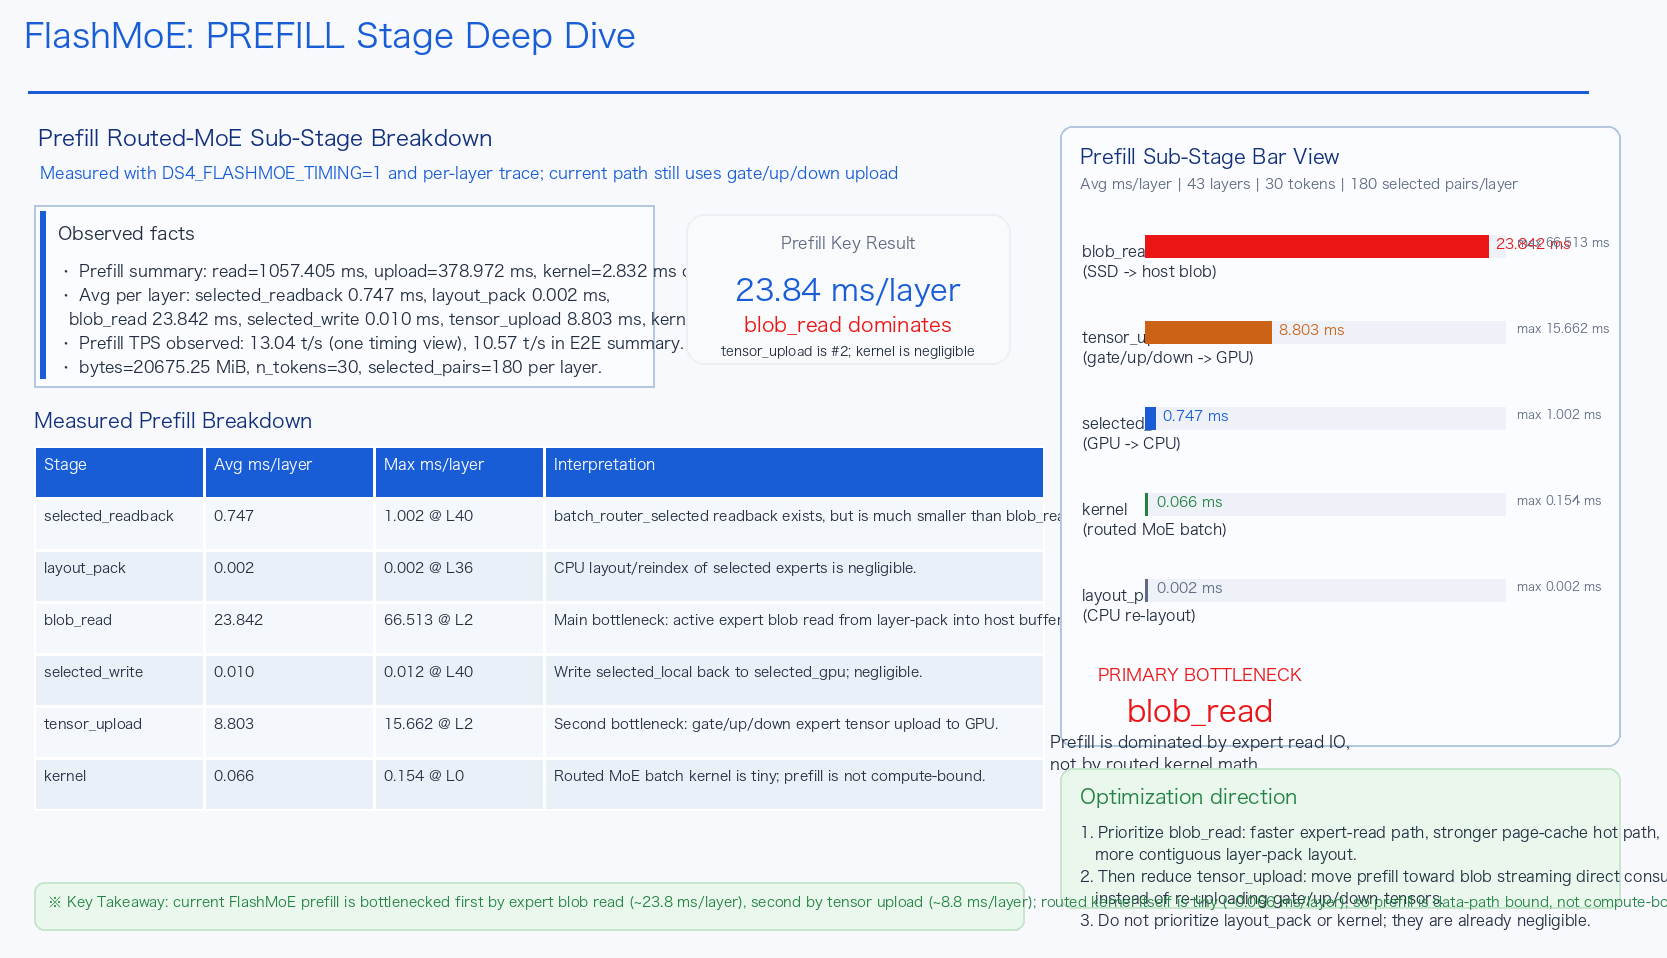
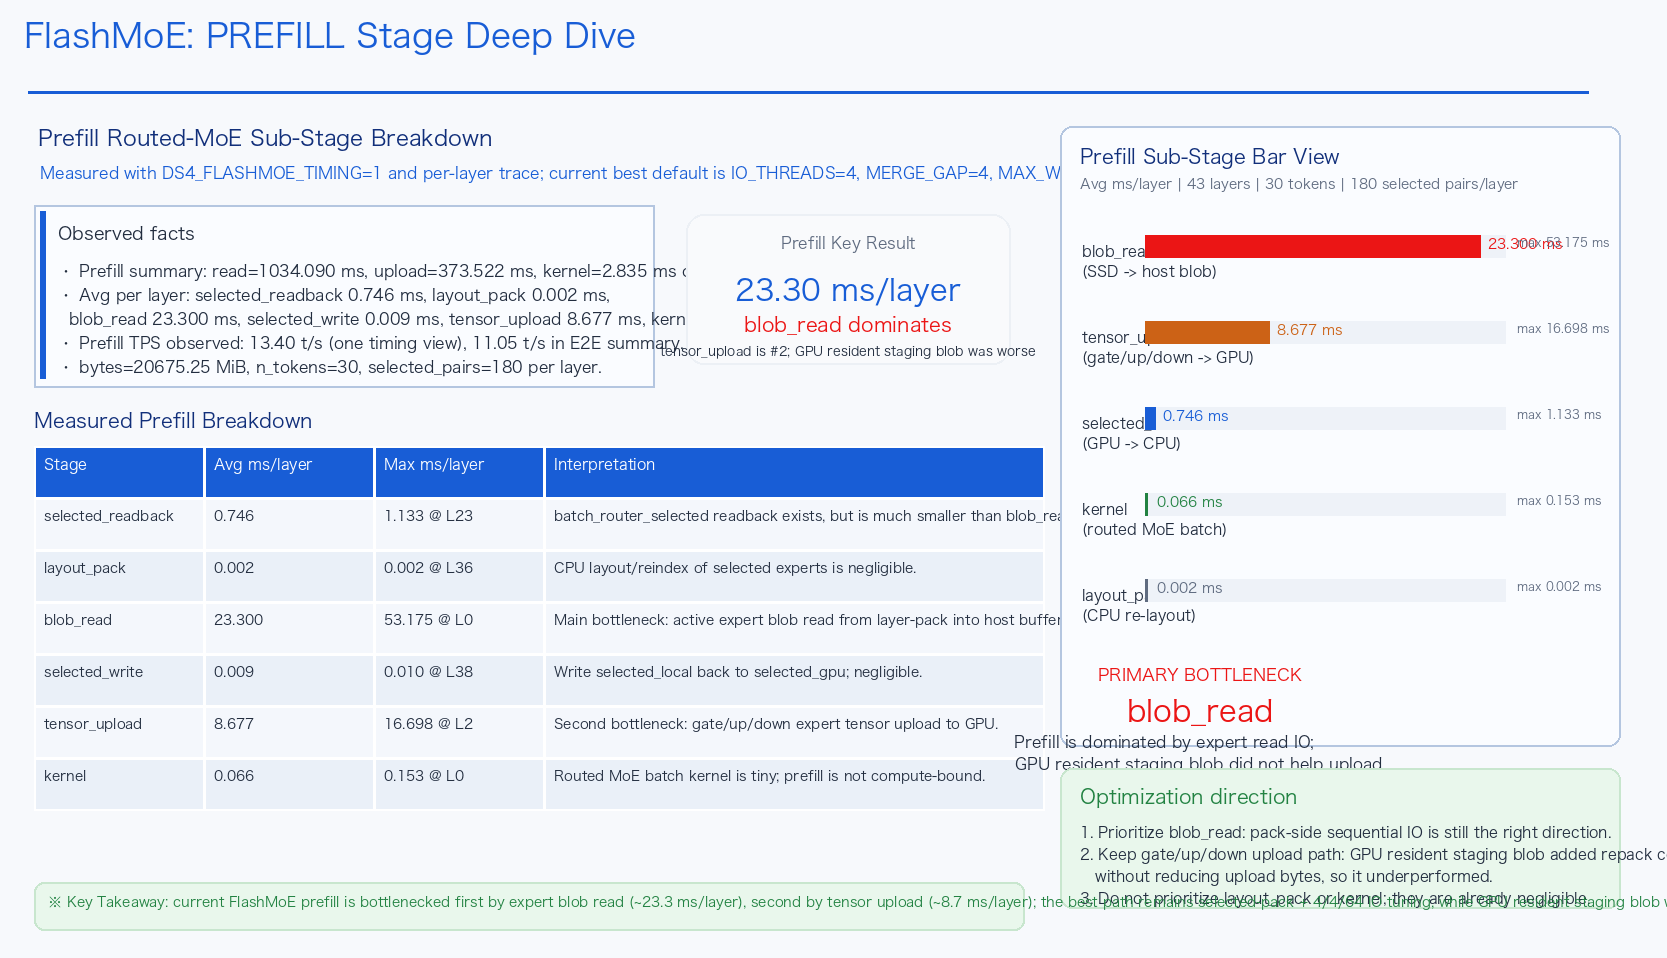
Update FlashMoE prefill analysis materials

diff --git a/tools/render_prefill_deep_dive_slide.py b/tools/render_prefill_deep_dive_slide.py
@@ -42,7 +42,7 @@ txt(24, 18, "FlashMoE: PREFILL Stage Deep Dive", 34, BLUE)
 d.line((28, 92, 1588, 92), fill=BLUE, width=3)
 
 txt(38, 126, "Prefill Routed-MoE Sub-Stage Breakdown", 22, NAVY)
-txt(40, 164, "Measured with DS4_FLASHMOE_TIMING=1 and per-layer trace; current path still uses gate/up/down upload", 16, BLUE)
+txt(40, 164, "Measured with DS4_FLASHMOE_TIMING=1 and per-layer trace; current best default is IO_THREADS=4, MERGE_GAP=4, MAX_WINDOW=64", 16, BLUE)
 
 rect(34, 205, 620, 182, (250, 252, 255), BORDER, 2, 0)
 d.line((42, 211, 42, 378), fill=BLUE, width=6)
@@ -50,10 +50,10 @@ txt(58, 224, "Observed facts", 18, DARK)
 txt(
     58,
     262,
-    "• Prefill summary: read=1057.405 ms, upload=378.972 ms, kernel=2.832 ms over 43 layers.\n"
-    "• Avg per layer: selected_readback 0.747 ms, layout_pack 0.002 ms,\n"
-    "  blob_read 23.842 ms, selected_write 0.010 ms, tensor_upload 8.803 ms, kernel 0.066 ms.\n"
-    "• Prefill TPS observed: 13.04 t/s (one timing view), 10.57 t/s in E2E summary.\n"
+    "• Prefill summary: read=1034.090 ms, upload=373.522 ms, kernel=2.835 ms over 43 layers.\n"
+    "• Avg per layer: selected_readback 0.746 ms, layout_pack 0.002 ms,\n"
+    "  blob_read 23.300 ms, selected_write 0.009 ms, tensor_upload 8.677 ms, kernel 0.066 ms.\n"
+    "• Prefill TPS observed: 13.40 t/s (one timing view), 11.05 t/s in E2E summary.\n"
     "• bytes=20675.25 MiB, n_tokens=30, selected_pairs=180 per layer.",
     16,
     DARK,
@@ -62,9 +62,9 @@ txt(
 
 rect(686, 214, 324, 150, (249, 250, 252), (236, 240, 245), 2, 18)
 txt(848, 234, "Prefill Key Result", 16, GRAY, "ma")
-txt(848, 274, "23.84 ms/layer", 30, BLUE, "ma")
+txt(848, 274, "23.30 ms/layer", 30, BLUE, "ma")
 txt(848, 314, "blob_read dominates", 20, RED, "ma")
-txt(848, 344, "tensor_upload is #2; kernel is negligible", 13, DARK, "ma")
+txt(848, 344, "tensor_upload is #2; GPU resident staging blob was worse", 13, DARK, "ma")
 
 txt(34, 410, "Measured Prefill Breakdown", 20, NAVY)
 table_x, table_y = 34, 446
@@ -72,12 +72,12 @@ col_w = [170, 170, 170, 500]
 row_h = 52
 headers = ["Stage", "Avg ms/layer", "Max ms/layer", "Interpretation"]
 rows = [
-    ["selected_readback", "0.747", "1.002 @ L40", "batch_router_selected readback exists, but is much smaller than blob_read and tensor_upload."],
+    ["selected_readback", "0.746", "1.133 @ L23", "batch_router_selected readback exists, but is much smaller than blob_read and tensor_upload."],
     ["layout_pack", "0.002", "0.002 @ L36", "CPU layout/reindex of selected experts is negligible."],
-    ["blob_read", "23.842", "66.513 @ L2", "Main bottleneck: active expert blob read from layer-pack into host buffers."],
-    ["selected_write", "0.010", "0.012 @ L40", "Write selected_local back to selected_gpu; negligible."],
-    ["tensor_upload", "8.803", "15.662 @ L2", "Second bottleneck: gate/up/down expert tensor upload to GPU."],
-    ["kernel", "0.066", "0.154 @ L0", "Routed MoE batch kernel is tiny; prefill is not compute-bound."],
+    ["blob_read", "23.300", "53.175 @ L0", "Main bottleneck: active expert blob read from layer-pack into host buffers."],
+    ["selected_write", "0.009", "0.010 @ L38", "Write selected_local back to selected_gpu; negligible."],
+    ["tensor_upload", "8.677", "16.698 @ L2", "Second bottleneck: gate/up/down expert tensor upload to GPU."],
+    ["kernel", "0.066", "0.153 @ L0", "Routed MoE batch kernel is tiny; prefill is not compute-bound."],
 ]
 
 x = table_x
@@ -104,10 +104,10 @@ bar_max_w = 360
 scale = bar_max_w / 25.0
 
 stages = [
-    ("blob_read\n(SSD -> host blob)", 23.842, 66.513, RED),
-    ("tensor_upload\n(gate/up/down -> GPU)", 8.803, 15.662, ORANGE),
-    ("selected_readback\n(GPU -> CPU)", 0.747, 1.002, BLUE),
-    ("kernel\n(routed MoE batch)", 0.066, 0.154, GREEN),
+    ("blob_read\n(SSD -> host blob)", 23.300, 53.175, RED),
+    ("tensor_upload\n(gate/up/down -> GPU)", 8.677, 16.698, ORANGE),
+    ("selected_readback\n(GPU -> CPU)", 0.746, 1.133, BLUE),
+    ("kernel\n(routed MoE batch)", 0.066, 0.153, GREEN),
     ("layout_pack\n(CPU re-layout)", 0.002, 0.002, GRAY),
 ]
 
@@ -122,17 +122,16 @@ for label, avg, mx, color in stages:
 
 txt(1200, 666, "PRIMARY BOTTLENECK", 17, RED, "ma")
 txt(1200, 695, "blob_read", 30, RED, "ma")
-txt(1200, 733, "Prefill is dominated by expert read IO,\nnot by routed kernel math.", 16, DARK, "ma", spacing=7)
+txt(1200, 733, "Prefill is dominated by expert read IO;\nGPU resident staging blob did not help upload.", 16, DARK, "ma", spacing=7)
 
 rect(1060, 768, 560, 140, (233, 247, 236), (200, 230, 206), 2, 12)
 txt(1080, 786, "Optimization direction", 20, GREEN)
 txt(
     1080,
     824,
-    "1. Prioritize blob_read: faster expert-read path, stronger page-cache hot path,\n"
-    "   more contiguous layer-pack layout.\n"
-    "2. Then reduce tensor_upload: move prefill toward blob streaming direct consume,\n"
-    "   instead of re-uploading gate/up/down tensors.\n"
+    "1. Prioritize blob_read: pack-side sequential IO is still the right direction.\n"
+    "2. Keep gate/up/down upload path: GPU resident staging blob added repack cost\n"
+    "   without reducing upload bytes, so it underperformed.\n"
     "3. Do not prioritize layout_pack or kernel; they are already negligible.",
     15,
     DARK,
@@ -143,7 +142,7 @@ rect(34, 882, 990, 48, (233, 247, 236), (200, 230, 206), 2, 10)
 txt(
     48,
     894,
-    "※ Key Takeaway: current FlashMoE prefill is bottlenecked first by expert blob read (~23.8 ms/layer), second by tensor upload (~8.8 ms/layer); routed kernel itself is tiny (~0.066 ms/layer), so prefill is data-path bound, not compute-bound.",
+    "※ Key Takeaway: current FlashMoE prefill is bottlenecked first by expert blob read (~23.3 ms/layer), second by tensor upload (~8.7 ms/layer); the best path remains selected-pack + 4/4/64 IO tuning, while GPU resident staging blob was verified ineffective.",
     14,
     GREEN,
 )

diff --git a/docs/gb10_moe_hardware_requirements_report.md b/docs/gb10_moe_hardware_requirements_report.md
@@ -750,25 +750,31 @@ GB10 上的实测结果如下：
   5. `selected_local -> selected_gpu`
   6. batch routed MoE kernel
 
-一次真实 prefill 运行得到的 summary 是：
+在多轮参数扫描后，当前稳定默认值已经固化为：
+
+- `DS4_FLASHMOE_IO_THREADS=4`
+- `DS4_FLASHMOE_IO_MERGE_GAP=4`
+- `DS4_FLASHMOE_IO_MAX_WINDOW_EXPERTS=64`
+
+对应一次真实 prefill 运行得到的 summary 是：
 
 - `layers = 43`
-- `read = 1057.405 ms`
-- `upload = 378.972 ms`
-- `kernel = 2.832 ms`
+- `read = 1034.090 ms`
+- `upload = 373.522 ms`
+- `kernel = 2.835 ms`
 - `bytes = 20675.25 MiB`
-- `prefill = 13.04 t/s`（另一口径日志中总 prefill 为 `10.57 t/s`，与当前 E2E 统计方式一致）
+- `prefill = 13.40 t/s`（另一口径日志中总 prefill 为 `11.05 t/s`，与当前 E2E 统计方式一致）
 
 对应 breakdown 如下：
 
 | Stage | avg ms / layer | max ms / layer | 含义 | 结论 |
 |---|---:|---:|---|---|
-| `selected_readback` | `0.747` | `1.002 @ L40` | `batch_router_selected` 从 GPU 回 CPU | 有固定成本，但明显小于 blob read 和 tensor upload |
+| `selected_readback` | `0.746` | `1.133 @ L23` | `batch_router_selected` 从 GPU 回 CPU | 有固定成本，但明显小于 blob read 和 tensor upload |
 | `layout_pack` | `0.002` | `0.002 @ L36` | CPU 侧将 selected 转成 active expert layout | 几乎可以忽略，不是瓶颈 |
-| `blob_read` | `23.842` | `66.513 @ L2` | 从 `layer-pack` 读取本层活跃 expert blob | **prefill 的第一大瓶颈**，显著大于其它所有阶段 |
-| `selected_write` | `0.010` | `0.012 @ L40` | `selected_local` 写回 `selected_gpu` | 可以忽略 |
-| `tensor_upload` | `8.803` | `15.662 @ L2` | `gate/up/down` 三块 expert tensor 上传到 GPU | **第二大瓶颈** |
-| `kernel` | `0.066` | `0.154 @ L0` | batch routed MoE kernel 本身 | 极小，不是算力瓶颈 |
+| `blob_read` | `23.300` | `53.175 @ L0` | 从 `layer-pack` 读取本层活跃 expert blob | **prefill 的第一大瓶颈**，显著大于其它所有阶段 |
+| `selected_write` | `0.009` | `0.010 @ L38` | `selected_local` 写回 `selected_gpu` | 可以忽略 |
+| `tensor_upload` | `8.677` | `16.698 @ L2` | `gate/up/down` 三块 expert tensor 上传到 GPU | **第二大瓶颈** |
+| `kernel` | `0.066` | `0.153 @ L0` | batch routed MoE kernel 本身 | 极小，不是算力瓶颈 |
 
 这组数据说明了三个非常明确的事实。
 
@@ -776,8 +782,8 @@ GB10 上的实测结果如下：
 
 最直观的对比是：
 
-- `blob_read ≈ 23.842 ms/layer`
-- `tensor_upload ≈ 8.803 ms/layer`
+- `blob_read ≈ 23.300 ms/layer`
+- `tensor_upload ≈ 8.677 ms/layer`
 - `kernel ≈ 0.066 ms/layer`
 
 也就是说，当前 prefill routed MoE 的 GPU 计算只占很小一部分时间；绝大多数时间都花在：
@@ -792,7 +798,7 @@ GB10 上的实测结果如下：
 
 #### 2. `selected_readback` 有固定成本，但不是 prefill 的决定性瓶颈
 
-prefill 里 `selected_readback ≈ 0.747 ms/layer`，量级上比 decode 的 `readback_wait` 小得多，也明显小于：
+prefill 里 `selected_readback ≈ 0.746 ms/layer`，量级上比 decode 的 `readback_wait` 小得多，也明显小于：
 
 - `blob_read`
 - `tensor_upload`
@@ -807,7 +813,7 @@ prefill 里 `selected_readback ≈ 0.747 ms/layer`，量级上比 decode 的 `re
 这两个阶段的平均值只有：
 
 - `layout_pack = 0.002 ms/layer`
-- `selected_write = 0.010 ms/layer`
+- `selected_write = 0.009 ms/layer`
 
 所以：
 
@@ -820,12 +826,11 @@ prefill 里 `selected_readback ≈ 0.747 ms/layer`，量级上比 decode 的 `re
 
 逐层 trace 的前几层和后几层摘录如下：
 
-- `L0`: `blob_read=57.18 ms`, `tensor_upload=14.52 ms`
-- `L1`: `blob_read=49.37 ms`, `tensor_upload=14.17 ms`
-- `L2`: `blob_read=53.16 ms`, `tensor_upload=21.21 ms`
-- `L38`: `blob_read=16.85 ms`, `tensor_upload=6.98 ms`
-- `L39`: `blob_read=23.12 ms`, `tensor_upload=9.59 ms`
-- `L42`: `blob_read=22.03 ms`, `tensor_upload=7.58 ms`
+- `L0`: `blob_read=53.175 ms`
+- `L2`: `tensor_upload=16.698 ms`
+- `L23`: `selected_readback=1.133 ms`
+- `L38`: `selected_write=0.010 ms`
+- `L42`: `kernel≈0.066 ms`
 
 这说明：
 
@@ -845,7 +850,7 @@ prefill 里 `selected_readback ≈ 0.747 ms/layer`，量级上比 decode 的 `re
 
 2. **第二优先级压 `tensor_upload`**
    - 更少的 `gate/up/down` 拆分上传
-   - 更接近“blob streaming direct consume”的 GPU 路径
+   - 但必须避免引入额外 host repack 成本
 
 3. **不要优先优化 `layout_pack` / `selected_write` / `kernel`**
    - 这些阶段太小，不会显著改变 prefill TPS
@@ -862,6 +867,43 @@ prefill 里 `selected_readback ≈ 0.747 ms/layer`，量级上比 decode 的 `re
 - upload 路径
 
 那么 prefill TPS 不会有数量级改善。
+
+#### 已验证失败的方向：GPU 驻留 / staging blob 方案
+
+我们还尝试过一个看起来更接近 decode blob-slot 思路的 prefill 方案：
+
+1. 保留当前 `selected_pack` 顺序读
+2. 在 host 侧把 `gate/up/down` 再重组为单一 `blob staging buffer`
+3. 单次 H2D 上传到 GPU resident blob
+4. 由 `batch external blob` kernel 直接消费
+
+这个方案的目标是压缩 `tensor_upload`，但实测结果没有收益，反而略差：
+
+| Path | read (ms) | upload (ms) | blob_read (ms/layer) | tensor_upload (ms/layer) | prefill t/s | generation t/s |
+|---|---:|---:|---:|---:|---:|---:|
+| `selected-pack + 4/4/64` | `1034.090` | `373.522` | `23.300` | `8.677` | `13.40` | `9.04` |
+| `GPU resident staging blob` | `1078.895` | `382.726` | `24.331` | `8.891` | `12.91` | `9.00` |
+
+这说明 prefill 不能简单套用 decode 的 GPU resident blob 思路，原因有三点：
+
+1. **prefill 的工作集太大，缺少 decode 那种小规模高复用**
+   - prefill 一层是 `30 tokens × top-k 6 = 180 selected pairs`
+   - 去重后 `active_count` 仍然通常是几十到上百个 expert
+   - 这不是 decode 那种“少量 resident slot 命中后长期复用”的场景
+
+2. **staging blob 没有减少上传总字节量**
+   - 只是把 `gate/up/down` 三段上传变成了一次 blob 上传
+   - expert 数据总量不变，因此 H2D 总负载没有本质下降
+
+3. **host 侧多做了一次重排**
+   - `selected-pack` 已经是对 prefill 最友好的 host 顺序读布局
+   - 再把 `gate/up/down` 重组成 blob，会新增一次 host memory copy / repack
+   - 最终既没有显著减少 upload，也轻微抬高了 read / blob_read
+
+因此，当前材料中的结论应该明确修正为：
+
+- **prefill 的正确优化方向仍然是 pack-side sequential IO**
+- **GPU resident blob 更适合 decode，不适合作为当前 prefill 的主优化路线**
 
 ### 7.5 Learned eviction policy：有效，但收益有限
 
